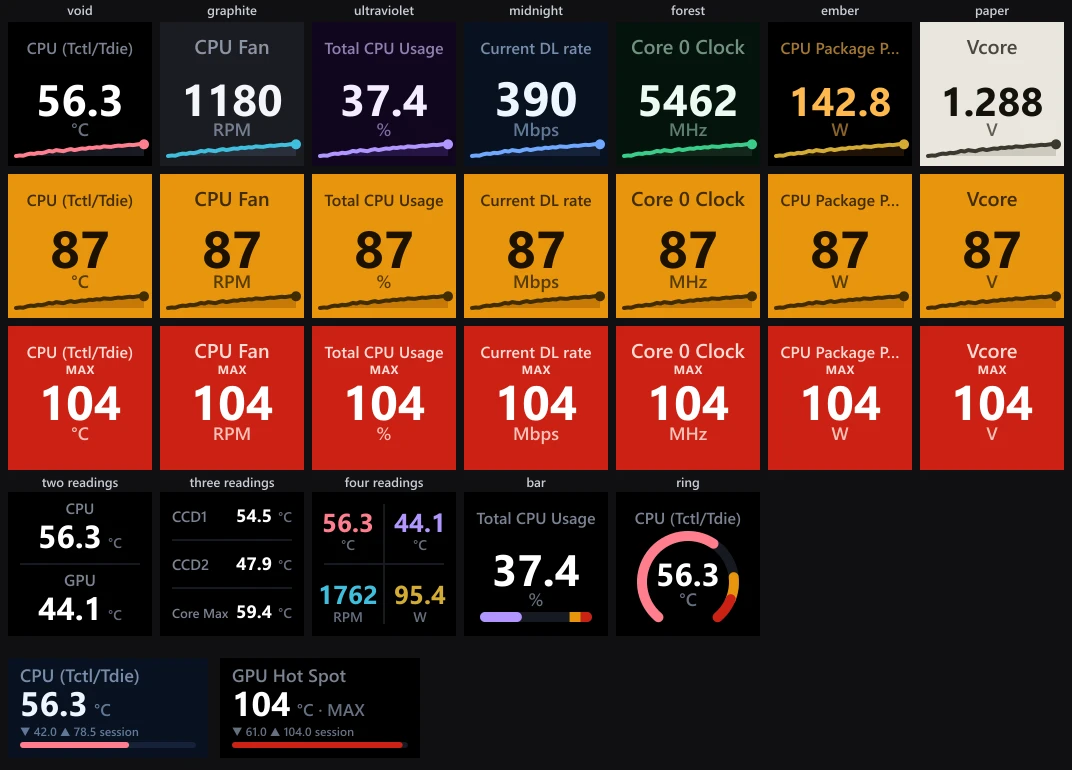
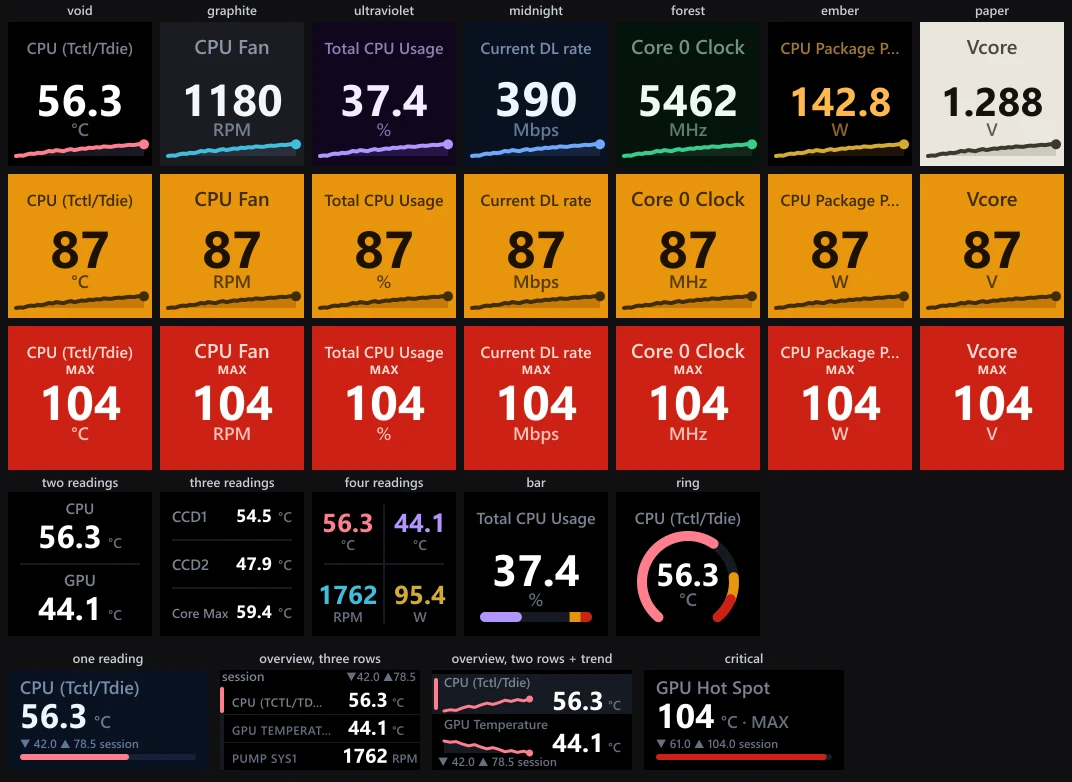
Refresh every image that carried the old photo, including the social card
The OpenGraph card still held the iPhone capture, so anything sharing a link
to the site showed the old photo. Rebuilt from the current master and renamed
to og-card-v2.jpg, because social scrapers cache that URL hard and reusing the
filename would have kept serving v1 for days. The v1 file is removed.

The product screenshot also gains the touchscreen row, so the page now shows
the multi-row overview faces beside the keys at their real relative size.

diff --git a/public/index.html b/public/index.html
@@ -14,7 +14,7 @@
 <meta property="og:type" content="website">
 <meta property="og:url" content="https://slawrensen.com/">
 <meta property="og:site_name" content="slawrensen">
-<meta property="og:image" content="https://slawrensen.com/assets/og-card-v1.jpg">
+<meta property="og:image" content="https://slawrensen.com/assets/og-card-v2.jpg">
 <meta property="og:image:type" content="image/jpeg">
 <meta property="og:image:width" content="1200">
 <meta property="og:image:height" content="630">
@@ -461,8 +461,8 @@
         <figure class="pshot pshot-scan">
           <div class="shot-frame">
             <div class="shot-scroll" tabindex="0" role="group" aria-label="Product screenshot, scroll horizontally to pan">
-              <img src="assets/hwinfo-sensors.webp" width="1072" height="770" decoding="async"
-                   alt="HWiNFO Sensors key faces: seven display themes across the top row, amber warn and red critical alert states below, each key with a live value, unit and sparkline, then a row showing what one key can hold (two, three and four readings, and the Bar and Ring gauges), plus two Stream Deck + dials">
+              <img src="assets/hwinfo-sensors.webp" width="1072" height="782" decoding="async"
+                   alt="HWiNFO Sensors key faces: seven display themes across the top row, amber warn and red critical alert states below, each key with a live value, unit and sparkline, then a row showing what one key can hold (two, three and four readings, and the Bar and Ring gauges), plus four Stream Deck + touchscreen faces at their true relative size">
             </div>
             <span class="shot-hint" aria-hidden="true">SCROLL</span>
           </div>
